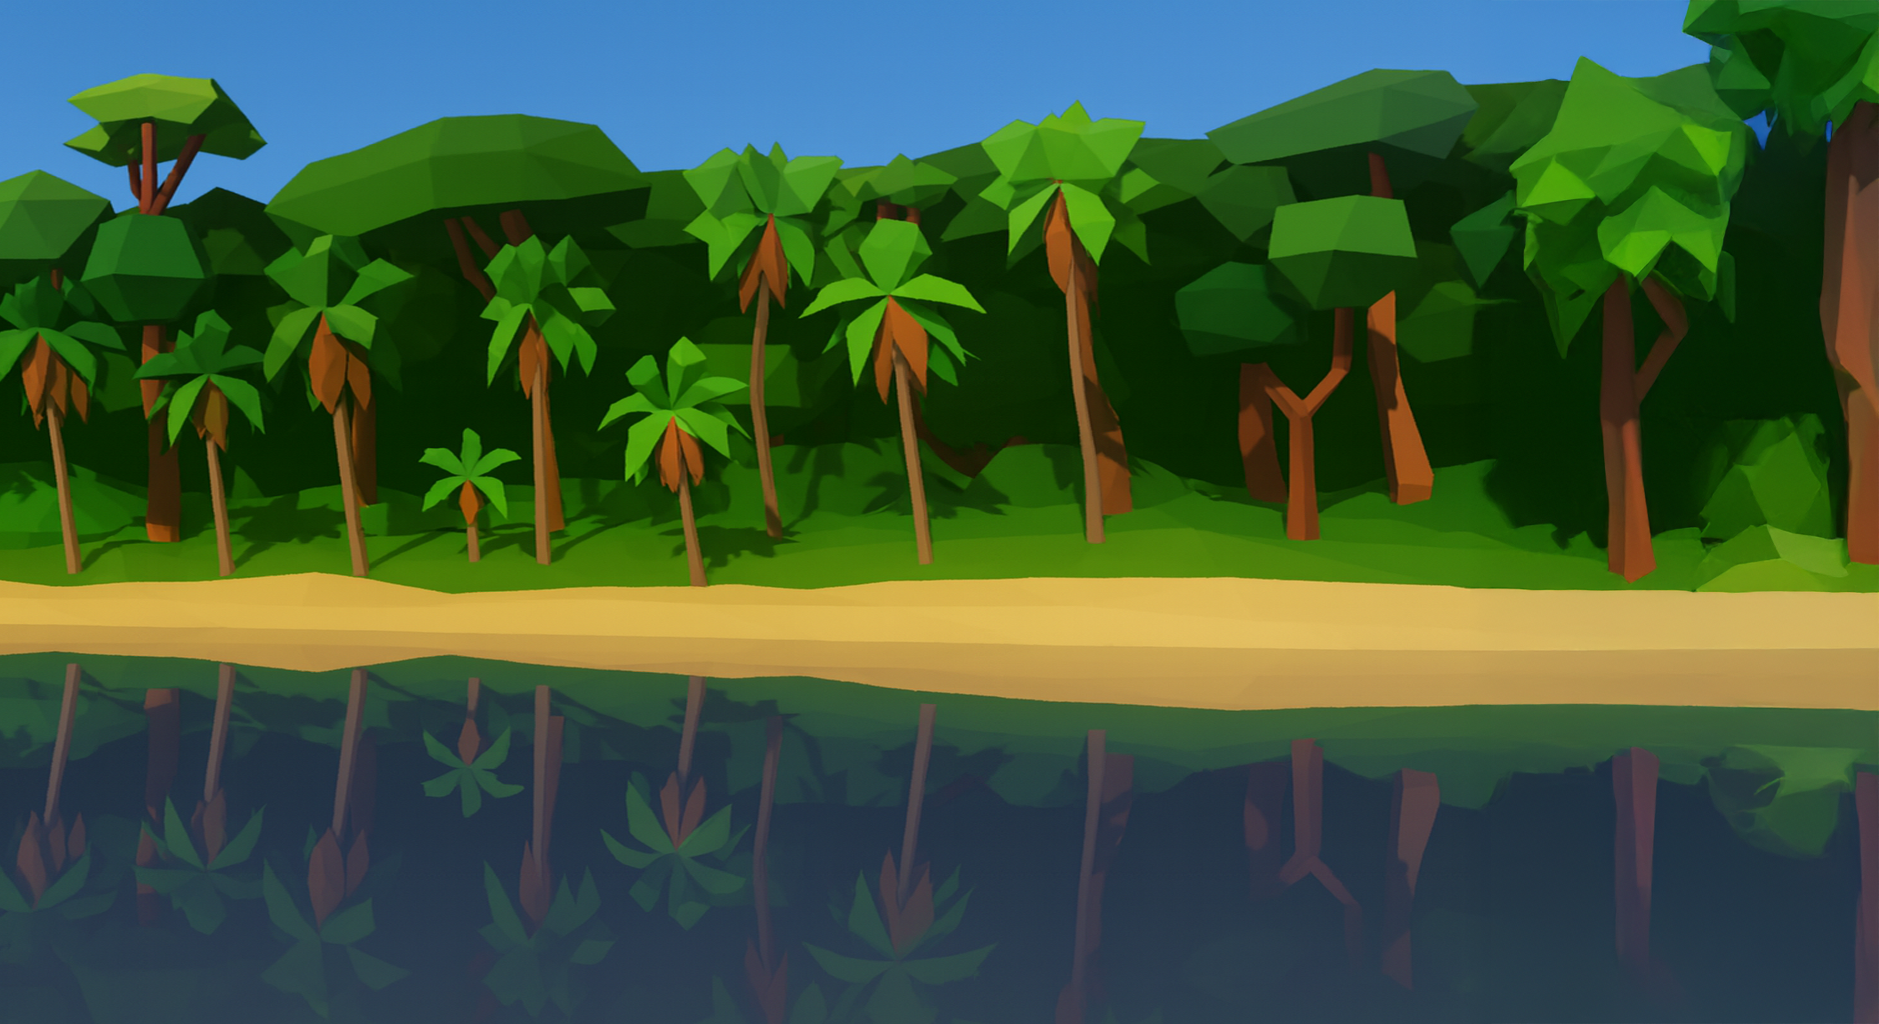
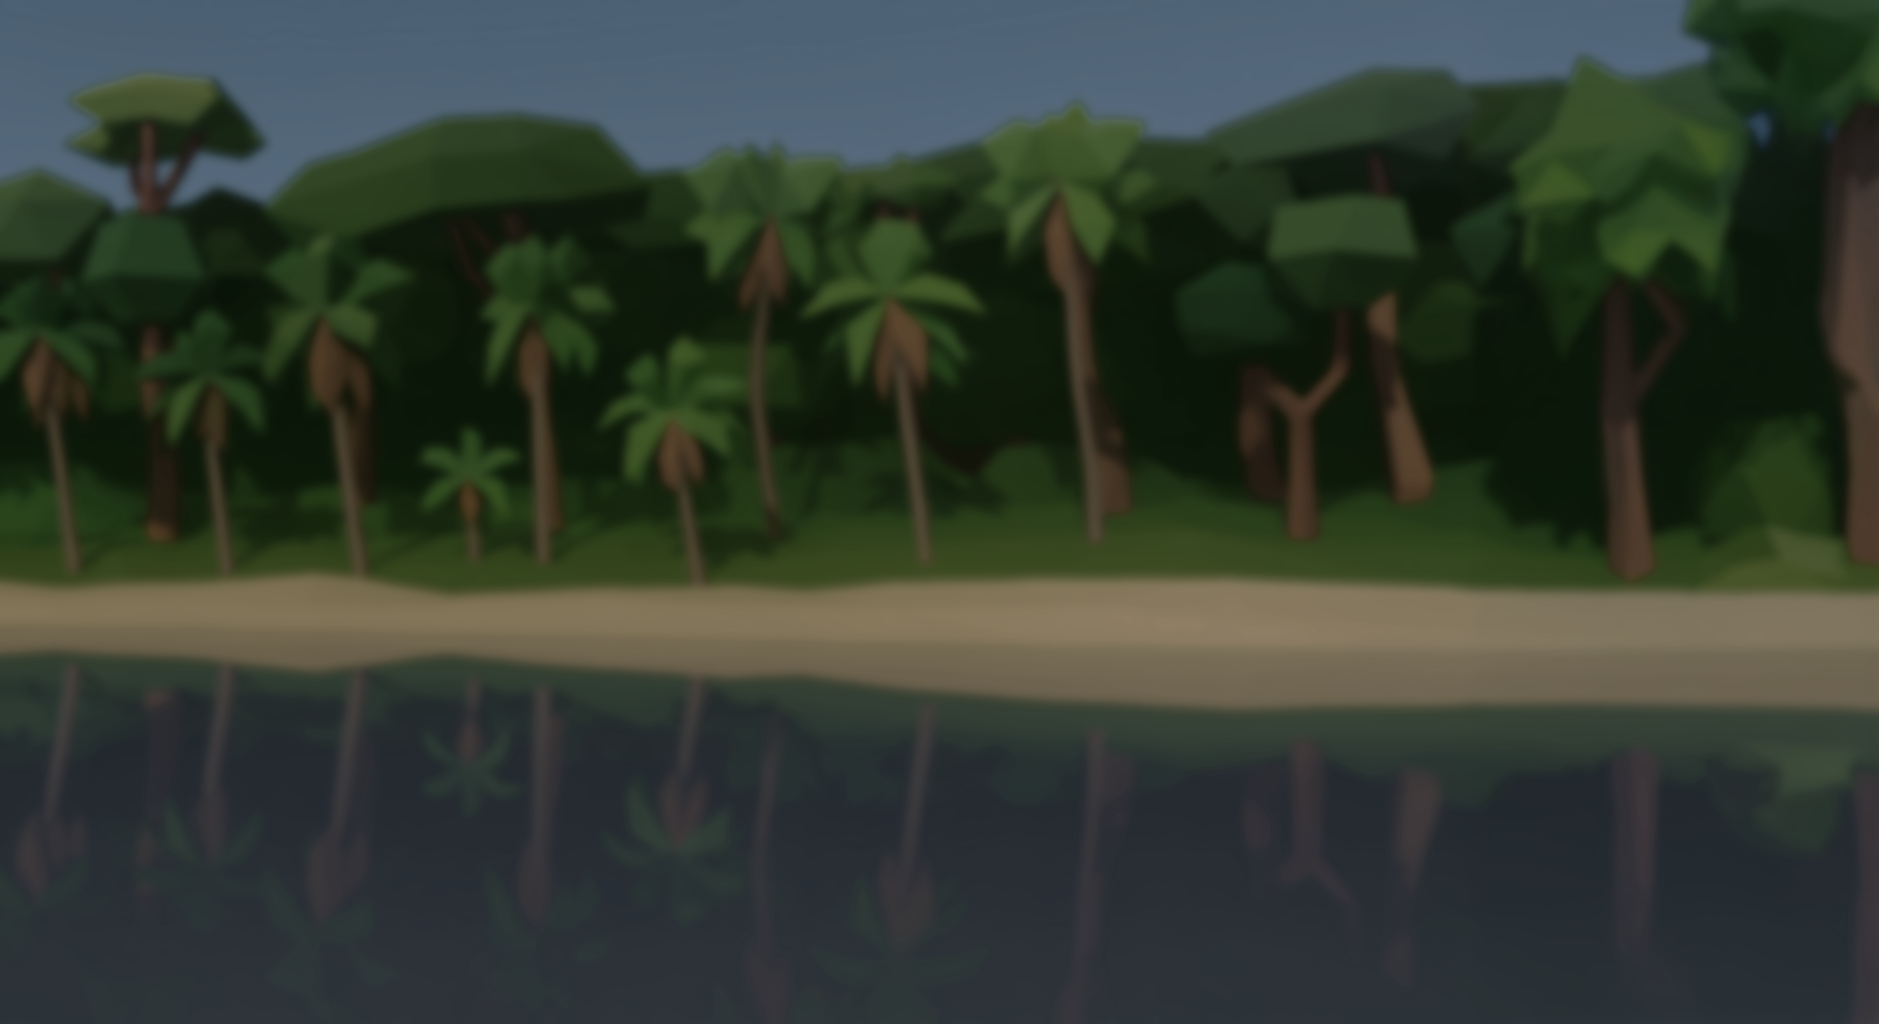
added texture and background

diff --git a/game/scenes/SimuladorScene.js b/game/scenes/SimuladorScene.js
@@ -16,7 +16,8 @@ export const DEFAULT_PARAMS = Object.freeze({
     top: 1,
     bottom: -0.38,
     cameraZ: 6.5,
-    backgroundZ: -2
+    backgroundZ: -2,
+    backgroundImage: '/game-assets/simulador/bg.png'
   }),
   colors: Object.freeze({
     skyTop: '#8ecae6',
@@ -79,7 +80,11 @@ export const DEFAULT_PARAMS = Object.freeze({
       highFrequency: 11.0,
       seed: 37.42
     }),
-    smoothing: 1.1
+    smoothing: 1.1,
+    texture: Object.freeze({
+      image: '/game-assets/simulador/sand.png',
+      tileWidthRatio: 0.1
+    })
   }),
   sediment: Object.freeze({
     maxParticles: 55,
@@ -302,8 +307,13 @@ export class SimuladorScene extends BaseScene {
     this._seedCatalog = new Map();
     this._plantGeometryCache = new Map();
     this._seedMaterialCache = new Map();
-  this._plantSequenceCache = new Map();
-  this._plantMaterialCache = new Map();
+    this._plantSequenceCache = new Map();
+    this._plantMaterialCache = new Map();
+
+    this._background = null;
+    this._backgroundTexture = null;
+    this._sandTexture = null;
+    this._sandTileRatio = this.params.riverbed?.texture?.tileWidthRatio ?? 0.1;
 
     this._seedBursts = [];
 
@@ -419,62 +429,72 @@ export class SimuladorScene extends BaseScene {
   }
 
   _createBackground() {
-    const { colors, world } = this.params;
+    const { world, colors } = this.params;
 
     const geometry = new THREE.PlaneGeometry(1, 1, 1, 1);
-    const material = new THREE.ShaderMaterial({
-      uniforms: {
-        colorTop: { value: new THREE.Color(colors.skyTop) },
-        colorBottom: { value: new THREE.Color(colors.skyBottom) }
-      },
-      vertexShader: `
-        varying vec2 vUv;
-        void main(){
-          vUv = uv;
-          gl_Position = projectionMatrix * modelViewMatrix * vec4(position, 1.0);
-        }
-      `,
-      fragmentShader: `
-        varying vec2 vUv;
-        uniform vec3 colorTop;
-        uniform vec3 colorBottom;
-        void main(){
-          float t = smoothstep(0.0, 1.0, vUv.y);
-          vec3 col = mix(colorBottom, colorTop, t);
-          gl_FragColor = vec4(col, 1.0);
-        }
-      `,
-      depthWrite: false
+    const material = new THREE.MeshBasicMaterial({
+      color: new THREE.Color(colors.skyBottom || '#ffffff'),
+      depthWrite: false,
+      depthTest: false,
+      fog: false,
+      toneMapped: false
     });
 
     this._background = new THREE.Mesh(geometry, material);
+    this._background.renderOrder = -100;
     this._background.position.z = world.backgroundZ;
     this.scene.add(this._background);
 
-    const bankGeometry = new THREE.PlaneGeometry(1, 0.15);
-    const bankMaterial = new THREE.MeshBasicMaterial({
-      color: new THREE.Color(colors.distantBank),
-      transparent: true,
-      opacity: 0.9
-    });
-    this._distantBank = new THREE.Mesh(bankGeometry, bankMaterial);
-    this._distantBank.position.z = world.backgroundZ + 0.01;
-    this.scene.add(this._distantBank);
+    const imagePath = world.backgroundImage;
+    if (imagePath) {
+      if (!this._textureLoader) {
+        this._textureLoader = new THREE.TextureLoader();
+      }
+      this._backgroundTexture = this._textureLoader.load(
+        imagePath,
+        () => {
+          this._prepareTexture(this._backgroundTexture);
+          if (this._background?.material) {
+            this._background.material.map = this._backgroundTexture;
+            this._background.material.color.setHex(0xffffff);
+            this._background.material.needsUpdate = true;
+          }
+          this._layoutBackground();
+        }
+      );
+    } else {
+      material.map = null;
+    }
   }
 
   _layoutBackground() {
     if (!this._background) return;
-    const height = this.worldHeight;
     const width = this.worldWidth;
+    const height = this.worldHeight;
 
-    this._background.scale.set(width, height * 1.2, 1);
-    this._background.position.set(width * 0.5, (this.worldTop + this.worldBottom) * 0.5 + height * 0.1, this.params.world.backgroundZ);
-
-    if (this._distantBank) {
-      this._distantBank.scale.set(width, height * 0.22, 1);
-      const bankHeight = this.worldTop - this._currentWaterLevel;
-      this._distantBank.position.set(width * 0.5, this._currentWaterLevel + bankHeight * 0.4, this.params.world.backgroundZ + 0.01);
+    let scaleX = width;
+    let scaleY = height;
+    const texture = this._backgroundTexture;
+    const texWidth = texture?.image?.width;
+    const texHeight = texture?.image?.height;
+    if (texWidth && texHeight) {
+      const texRatio = texWidth / texHeight;
+      const viewRatio = width / height;
+      if (viewRatio > texRatio) {
+        scaleX = width;
+        scaleY = width / texRatio;
+      } else {
+        scaleY = height;
+        scaleX = height * texRatio;
+      }
     }
+
+    this._background.scale.set(scaleX, scaleY, 1);
+    this._background.position.set(
+      width * 0.5,
+      (this.worldTop + this.worldBottom) * 0.5,
+      this.params.world.backgroundZ
+    );
   }
 
   _createWater() {
@@ -652,26 +672,18 @@ export class SimuladorScene extends BaseScene {
   }
 
   _createRiverbed() {
-    const { riverbed, colors } = this.params;
+    const { riverbed } = this.params;
     const segments = riverbed.segments;
     const { geometry, topIndices, bottomIndices } = this._buildStripGeometry(segments);
-
-    const colorsAttr = new Float32Array((segments + 1) * 2 * 3);
-    const colorTop = new THREE.Color(colors.riverbedBase);
-    const colorBottom = new THREE.Color(colors.riverbedShadow);
-    for (let i = 0; i <= segments; i++) {
-      const topIdx = topIndices[i] * 3;
-      const bottomIdx = bottomIndices[i] * 3;
-      colorTop.toArray(colorsAttr, topIdx);
-      colorBottom.toArray(colorsAttr, bottomIdx);
-    }
-    geometry.setAttribute('color', new THREE.BufferAttribute(colorsAttr, 3));
     geometry.attributes.position.setUsage(THREE.DynamicDrawUsage);
 
     const material = new THREE.MeshBasicMaterial({
-      vertexColors: true,
+      color: 0xffffff,
       transparent: true,
-      opacity: 0.95
+      opacity: 1,
+      depthWrite: false,
+      side: THREE.DoubleSide,
+      toneMapped: false
     });
 
     this._riverbedStrip = {
@@ -682,6 +694,35 @@ export class SimuladorScene extends BaseScene {
     };
     this._riverbedStrip.mesh.position.z = -0.05;
     this.scene.add(this._riverbedStrip.mesh);
+
+    const texturePath = riverbed.texture?.image;
+    if (texturePath) {
+      if (!this._textureLoader) {
+        this._textureLoader = new THREE.TextureLoader();
+      }
+      this._sandTexture = this._textureLoader.load(
+        texturePath,
+        () => {
+          this._prepareTexture(this._sandTexture);
+          if (this._sandTexture) {
+            this._sandTexture.wrapS = THREE.RepeatWrapping;
+            this._sandTexture.wrapT = THREE.RepeatWrapping;
+            this._sandTexture.needsUpdate = true;
+          }
+          this._updateRiverbedUVs();
+          if (this._riverbedStrip?.mesh?.material) {
+            this._riverbedStrip.mesh.material.needsUpdate = true;
+          }
+        }
+      );
+      if (this._sandTexture) {
+        this._sandTexture.wrapS = THREE.RepeatWrapping;
+        this._sandTexture.wrapT = THREE.RepeatWrapping;
+        this._sandTexture.needsUpdate = true;
+        material.map = this._sandTexture;
+        material.needsUpdate = true;
+      }
+    }
 
     this._riverbedHeights = new Float32Array(segments + 1);
     this._riverbedBase = new Float32Array(segments + 1);
@@ -710,6 +751,41 @@ export class SimuladorScene extends BaseScene {
     }
 
     geometry.attributes.position.needsUpdate = true;
+    this._updateRiverbedUVs();
+  }
+
+  _updateRiverbedUVs() {
+    if (!this._riverbedStrip) return;
+    const { geometry, topIndices, bottomIndices } = this._riverbedStrip;
+    const uvsAttr = geometry.attributes.uv;
+    if (!uvsAttr) return;
+    const positions = geometry.attributes.position.array;
+    const uvs = uvsAttr.array;
+    const tileRatio = Math.max(1e-4, this._sandTileRatio || 0.1);
+    const tileSize = Math.max(1e-4, this.worldWidth * tileRatio);
+    const bedBottom = this.params.riverbed.bottom;
+    const segments = this.params.riverbed.segments;
+
+    for (let i = 0; i <= segments; i++) {
+      const topIndex = topIndices[i];
+      const bottomIndex = bottomIndices[i];
+      const topPosIdx = topIndex * 3;
+      const bottomPosIdx = bottomIndex * 3;
+      const topUvIdx = topIndex * 2;
+      const bottomUvIdx = bottomIndex * 2;
+
+      const topX = positions[topPosIdx + 0];
+      const topY = positions[topPosIdx + 1];
+      const bottomX = positions[bottomPosIdx + 0];
+      const bottomY = positions[bottomPosIdx + 1];
+
+      uvs[topUvIdx + 0] = topX / tileSize;
+      uvs[topUvIdx + 1] = (topY - bedBottom) / tileSize;
+      uvs[bottomUvIdx + 0] = bottomX / tileSize;
+      uvs[bottomUvIdx + 1] = (bottomY - bedBottom) / tileSize;
+    }
+
+    uvsAttr.needsUpdate = true;
   }
 
   _initializeRiverbed() {
@@ -774,6 +850,7 @@ export class SimuladorScene extends BaseScene {
     }
 
     geometry.attributes.position.needsUpdate = true;
+    this._updateRiverbedUVs();
     this._riverbedDirty = false;
   }
 
@@ -2889,7 +2966,6 @@ export class SimuladorScene extends BaseScene {
     };
 
     disposeMesh(this._background);
-    disposeMesh(this._distantBank);
     disposeMesh(this._waterStrip?.mesh);
     disposeMesh(this._riverbedStrip?.mesh);
     disposeMesh(this._averageLine);
@@ -2942,9 +3018,16 @@ export class SimuladorScene extends BaseScene {
     this._availableSeedIds.clear();
 
     this._background = null;
-    this._distantBank = null;
+    if (this._backgroundTexture) {
+      this._backgroundTexture.dispose?.();
+      this._backgroundTexture = null;
+    }
     this._waterStrip = null;
     this._riverbedStrip = null;
+    if (this._sandTexture) {
+      this._sandTexture.dispose?.();
+      this._sandTexture = null;
+    }
     this._averageLine = null;
     this._particlesPoints = null;
     this._particlesGeometry = null;
